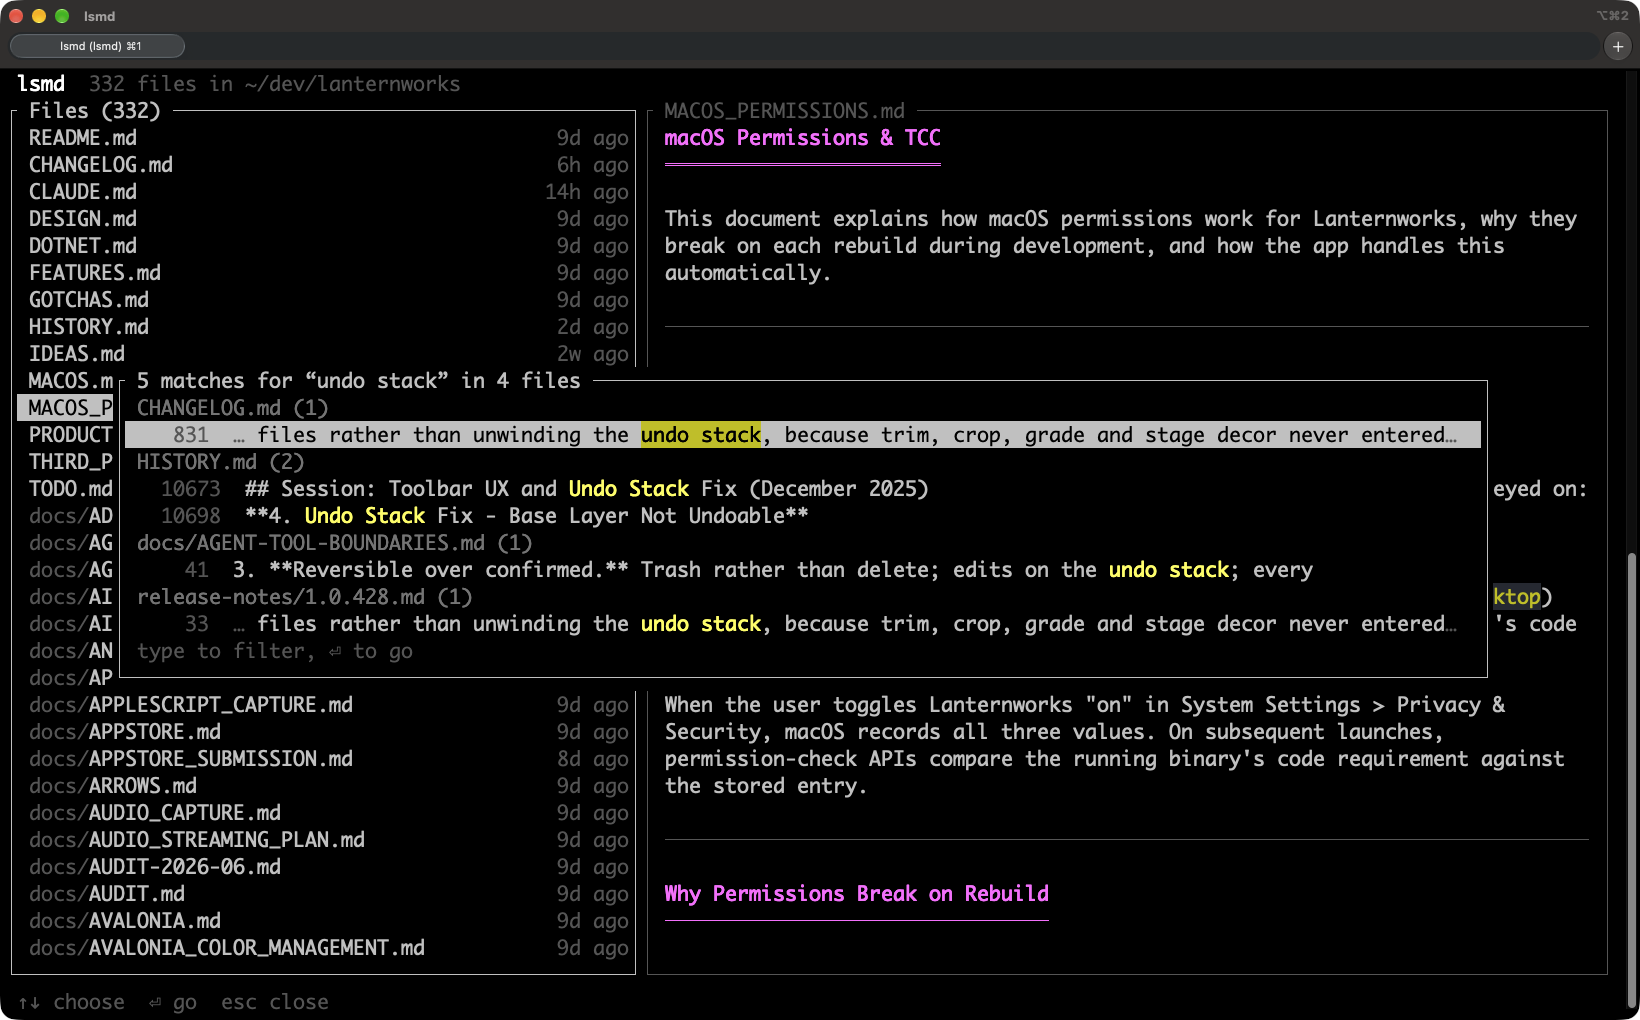
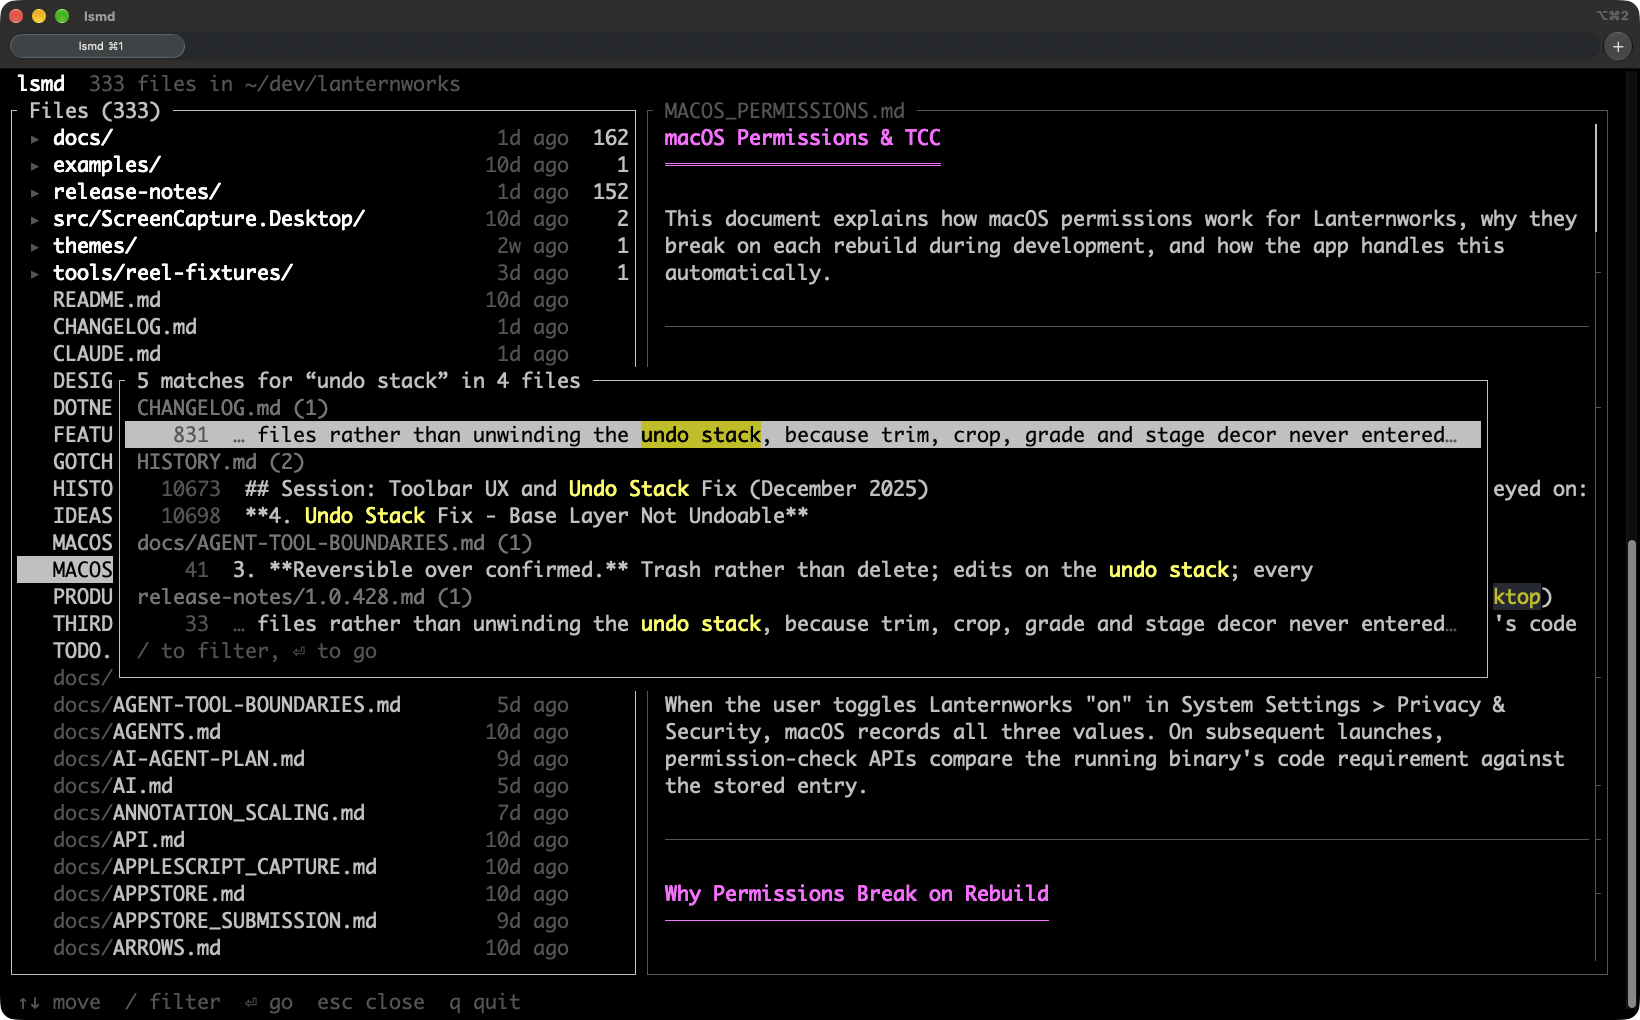
README: record the folders; footer keeps a gap before the position
The recording and the search screenshot now show the folders at the top
of the list, and the recording goes into a folder and back out.

When the footer's keys don't all fit, they no longer run into the
position at its right.

diff --git a/src/tui/mod.rs b/src/tui/mod.rs
@@ -1343,7 +1343,8 @@ impl App {
                 None => d.position(),
             })
             .unwrap_or_default();
-        let pos_width = wrap::width(&position) as u16 + 1;
+        // And a gap before it, for when the keys don't all fit.
+        let pos_width = wrap::width(&position) as u16 + 3;
         let [keys_area, pos_area] =
             Layout::horizontal([Constraint::Min(0), Constraint::Length(pos_width)]).areas(area);
         f.render_widget(Paragraph::new(Line::from(spans)), keys_area);

diff --git a/README.md b/README.md
@@ -4,9 +4,9 @@
 
 `lsmd` shows every Markdown file in your project on one screen, so you can browse and read them quickly. It knows which documents link to each other, in both directions, so you can jump to related documents instantly. It searches the document you're reading as you type, and every file in the project in a moment. It makes it easy to find your way around everything your team and your AI agents write.
 
-![lsmd skimming a project's 333 Markdown files, each rendered as it's selected; filtering to one and opening it; scrolling; jumping between sections with the outline; and searching the document](docs/images/browse.gif)
+![lsmd skimming a project's 333 Markdown files, each rendered as it's selected; previewing a folder, going into it and back out; filtering to one file and opening it; jumping between sections with the outline; and searching the document](docs/images/browse.gif)
 
-That's `lsmd` in a project with 333 Markdown files. Every file is listed with how long ago it changed, and holding `↓` renders each one beside the list as fast as your keyboard repeats. `/design-arch` narrows the list to one file and `Enter` opens it. `o` brings up its outline, where the text follows each heading as you move through them. Then `/golden` searches the document, and `n` goes to the next match.
+That's `lsmd` in a project with 333 Markdown files. The folders come first, each with how many files are in it, then every file, with how long ago it changed; holding `↓` renders each one beside the list as fast as your keyboard repeats. A folder shows what's in it, `→` goes in and `←` comes back out. `/design-arch` narrows the list to one file and `Enter` opens it. `o` brings up its outline, where the text follows each heading as you move through them. Then `/golden` searches the document, and `n` goes to the next match.
 
 ## Why
 
